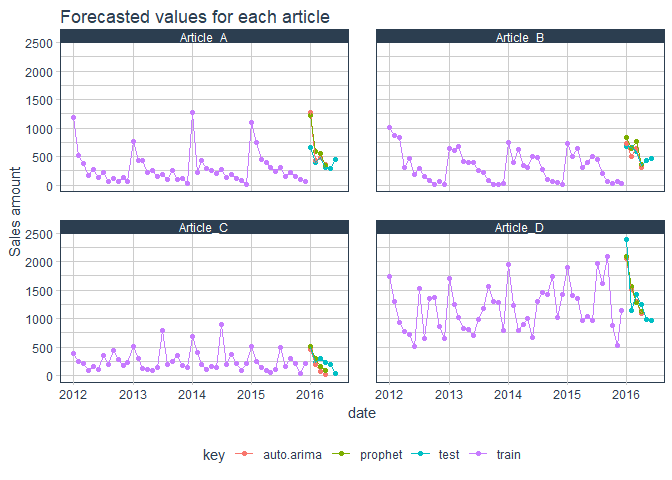
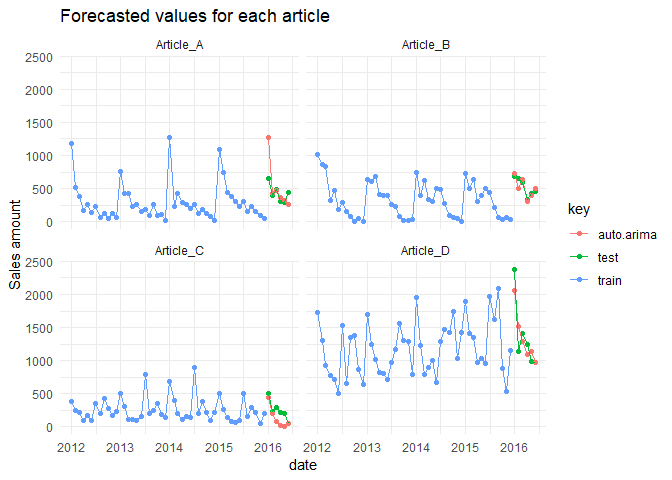
updated examples

diff --git a/README.md b/README.md
@@ -30,31 +30,50 @@ First we load some packages for this example.
 ``` r
 
 library(tidyverse)
+library(tsibble) # for creating nicer representation of monthly data
 library(efor)
 library(furrr) # for running the forecasting in parallel
 library(forecast) #provides forecast mehotds
 library(prophet) # provides forecast mehod
-library(tidyquant) # for nicer plots
 
-sales_data <- sales_monthly
+
+sales_data <- sales_monthly %>% 
+  mutate(date = yearmonth(date))
+
+sales_data
+#> # A tibble: 216 x 3
+#>        date     y iterate  
+#>       <mth> <dbl> <chr>    
+#>  1 2012 Jan  1179 Article_A
+#>  2 2012 Feb   516 Article_A
+#>  3 2012 Mrz   381 Article_A
+#>  4 2012 Apr   171 Article_A
+#>  5 2012 Mai   264 Article_A
+#>  6 2012 Jun   135 Article_A
+#>  7 2012 Jul   225 Article_A
+#>  8 2012 Aug    66 Article_A
+#>  9 2012 Sep   123 Article_A
+#> 10 2012 Okt    54 Article_A
+#> # ... with 206 more rows
 ```
 
 We have some sales data for four articles. We want to create forecasts
 for all these articles. The efor package makes this quite easy, because
 it provides functionality to create forecasts for multiple articles with
-one line of code. Right now you can use the forecast package or the
-prophet package.
+just one function code. Right now you can apply the functions from the
+forecast or prophet package.
 
 The idea is that all the data has to be organised in one dataframe with
 the following columns:
 
-  - date: The date: Right now it’s possible to use daily and monthly
-    data.
+  - date: A date column
   - iterate: the grouping variable. In this example it is the
     articlenumber
   - y: the value you want to forecast
 
-<!-- end list -->
+The dataframe sales\_data is already meeting these requirements.
+
+Before we start forecasts let’s quickly create a plot of the data:
 
 ``` r
 
@@ -63,14 +82,15 @@ ggplot(sales_data, aes(x = date, y = y)) +
   geom_point() +
   facet_wrap(~iterate) +
   ggtitle("The original series") +
-  theme_tq() 
+  theme_minimal() 
 ```
 
 <img src="man/figures/README-unnamed-chunk-2-1.png" width="100%" />
 
 We split the dataset in a train and test set. All observations from the
-year 2016 go to the test set. We want to create forecasts for the next 4
-months of the testset and evaluate the performance.
+year 2016 go into the test set. We want to create forecasts for the next
+4 months of the testset and evaluate the performance of different
+methods.
 
 ``` r
 train_data <- sales_data %>% 
@@ -87,11 +107,26 @@ parallel.
 ``` r
 forecasts_ar <- tf_grouped_forecasts(
   train_data,        # used training dataset
-  n_pred = 4,        # number of predictions
+  n_pred = 6,        # number of predictions
   func = auto.arima, # used forecasting method
-  freq = 12,         # Frequency. 12 for monthly data, 1 for daily data,
   parallel = TRUE    # for runiing in parallel
 )
+
+forecasts_ar
+#> # A tibble: 24 x 6
+#>        date iterate   key            y y_lo_95 y_hi_95
+#>       <mth> <chr>     <chr>      <dbl>   <dbl>   <dbl>
+#>  1 2016 Jan Article_A auto.arima 1266.  1051.    1481.
+#>  2 2016 Feb Article_A auto.arima  425.   210.     640.
+#>  3 2016 Mrz Article_A auto.arima  476.   260.     691.
+#>  4 2016 Apr Article_A auto.arima  367.   152.     582.
+#>  5 2016 Mai Article_A auto.arima  319.   103.     534.
+#>  6 2016 Jun Article_A auto.arima  255.    39.8    470.
+#>  7 2016 Jan Article_B auto.arima  723    500.     946.
+#>  8 2016 Feb Article_B auto.arima  501    278.     724.
+#>  9 2016 Mrz Article_B auto.arima  642    419.     865.
+#> 10 2016 Apr Article_B auto.arima  306     83.0    529.
+#> # ... with 14 more rows
 ```
 
 With the same syntax you can create forecasts utilizing the prophet
@@ -101,18 +136,34 @@ prophet, because there is some bug right now.
 ``` r
 forecasts_prophet <- tf_grouped_forecasts(
   train_data,      # used training dataset
-  n_pred = 4,      # number of predictions
+  n_pred = 6,      # number of predictions
   func = prophet,  # used forecasting method
-  freq = 12,       # Frequency. 12 for monthly data, 1 for daily data
   parallel = FALSE #disabling parallel for prohet
 )
+
+forecasts_prophet
+#> # A tibble: 24 x 6
+#>        date iterate   key         y y_lo_95 y_hi_95
+#>       <mth> <chr>     <chr>   <dbl>   <dbl>   <dbl>
+#>  1 2016 Jan Article_A prophet 1224.   1081.   1358.
+#>  2 2016 Feb Article_A prophet  589.    437.    727.
+#>  3 2016 Mrz Article_A prophet  545.    416.    682.
+#>  4 2016 Apr Article_A prophet  334.    195.    471.
+#>  5 2016 Mai Article_A prophet  384.    242.    517.
+#>  6 2016 Jun Article_A prophet  258.    122.    390.
+#>  7 2016 Jan Article_B prophet  835.    704.    971.
+#>  8 2016 Feb Article_B prophet  635.    499.    779.
+#>  9 2016 Mrz Article_B prophet  759.    628.    908.
+#> 10 2016 Apr Article_B prophet  355.    215.    495.
+#> # ... with 14 more rows
 ```
 
 In order to create some plots and evaluate the performance we combine
 the forecasts into one dataset.
 
 ``` r
-forecasts <- bind_rows(forecasts_ar, forecasts_prophet)
+forecasts <- bind_rows(forecasts_ar, forecasts_prophet) %>% 
+  mutate(date = yearmonth(date)) #reformat the date because of a bug in bind_rows
 ```
 
 The package brings also a function which makes ist quite easy to access
@@ -121,35 +172,39 @@ multiple methods:
 
 ``` r
 tf_calc_metrics(forecasts, test_data)
-#> # A tibble: 6 x 3
-#>   key        metric   value
-#>   <chr>      <chr>    <dbl>
-#> 1 auto.arima mae    154.   
-#> 2 prophet    mae    157.   
-#> 3 prophet    rmse   217.   
-#> 4 auto.arima rmse   222.   
-#> 5 auto.arima rsq      0.847
-#> 6 prophet    rsq      0.858
+#> # A tibble: 10 x 3
+#>    key        metric   value
+#>    <chr>      <chr>    <dbl>
+#>  1 auto.arima mae    129.   
+#>  2 prophet    mae    135.   
+#>  3 prophet    rmse   188.   
+#>  4 auto.arima rmse   192.   
+#>  5 auto.arima rsq      0.865
+#>  6 prophet    rsq      0.869
+#>  7 auto.arima mase     0.469
+#>  8 prophet    mase     0.491
+#>  9 auto.arima mape    25.4  
+#> 10 prophet    mape    31.4
 ```
 
 Also it is possible to access the performance of each article:
 
 ``` r
 tf_calc_metrics(forecasts, test_data, detailed = TRUE)
-#> # A tibble: 24 x 4
-#>    key        iterate   metric value
-#>    <chr>      <chr>     <chr>  <dbl>
-#>  1 auto.arima Article_B mae     71  
-#>  2 prophet    Article_C mae     88.3
-#>  3 prophet    Article_B mae     90.0
-#>  4 auto.arima Article_C mae    123. 
-#>  5 auto.arima Article_A mae    177. 
-#>  6 prophet    Article_A mae    212. 
-#>  7 prophet    Article_D mae    237. 
-#>  8 auto.arima Article_D mae    243. 
-#>  9 auto.arima Article_B rmse    86.2
-#> 10 prophet    Article_C rmse   102. 
-#> # ... with 14 more rows
+#> # A tibble: 40 x 4
+#>    key        metric value iterate  
+#>    <chr>      <chr>  <dbl> <chr>    
+#>  1 auto.arima mae     60   Article_B
+#>  2 prophet    mae     83.8 Article_C
+#>  3 prophet    mae     84.5 Article_B
+#>  4 auto.arima mae    115.  Article_C
+#>  5 auto.arima mae    154.  Article_A
+#>  6 prophet    mae    186.  Article_D
+#>  7 prophet    mae    187.  Article_A
+#>  8 auto.arima mae    189.  Article_D
+#>  9 auto.arima rmse    73.8 Article_B
+#> 10 prophet    rmse    94.0 Article_C
+#> # ... with 30 more rows
 ```
 
 Finally we create a quick graph visualising the results of the
@@ -164,117 +219,15 @@ test_data_plot <- test_data %>%
 
 bind_rows(train_data_plot, test_data_plot) %>% 
   bind_rows(forecasts) %>% 
+  filter(key %in% c("auto.arima", "train", "test")) %>% 
+  mutate(date = yearmonth(date)) %>% 
   ggplot(aes(x = date, y = y, color = key)) +
   geom_point() +
   geom_line() +
   facet_wrap(~iterate) +
   ggtitle("Forecasted values for each article") +
   ylab("Sales amount") +
-  theme_tq() 
+  theme_minimal()
 ```
 
 <img src="man/figures/README-unnamed-chunk-9-1.png" width="100%" />
-
-## Other included stuff
-
-There are couple of further things involded in the package, which make
-applying techniques to multiple timeseries easier.
-
-### Decomposition
-
-There are functions for splitting timeseries in trend, seasonality and
-noise
-
-``` r
-tf_decompose(train_data)
-#> frequency = 12 months
-#> trend = 24 months
-#> frequency = 12 months
-#> trend = 24 months
-#> frequency = 12 months
-#> trend = 24 months
-#> frequency = 12 months
-#> trend = 24 months
-#> # A tibble: 192 x 6
-#>    date           y iterate   season trend remainder
-#>    <date>     <dbl> <chr>      <dbl> <dbl>     <dbl>
-#>  1 2012-01-01  1179 Article_A  799.   271.    109.  
-#>  2 2012-02-01   516 Article_A  208.   270.     37.8 
-#>  3 2012-03-01   381 Article_A  132.   269.    -19.2 
-#>  4 2012-04-01   171 Article_A  -15.7  267.    -80.8 
-#>  5 2012-05-01   264 Article_A  -15.4  266.     13.0 
-#>  6 2012-06-01   135 Article_A -110.   265.    -20.3 
-#>  7 2012-07-01   225 Article_A  -44.4  264.      4.93
-#>  8 2012-08-01    66 Article_A -183.   264.    -15.0 
-#>  9 2012-09-01   123 Article_A -107.   263.    -32.3 
-#> 10 2012-10-01    54 Article_A -189.   262.    -18.3 
-#> # ... with 182 more rows
-```
-
-### Transformations and cleaning
-
-There are a couple of transformations possible (BoxCox, and
-forecast::tsclean)
-
-#### BoxCox
-
-First we get the lambda for each timeseries
-
-``` r
-lambdas <- tf_get_lambdas(train_data)
-
-lambdas
-#> # A tibble: 4 x 2
-#>   iterate    lambda
-#>   <chr>       <dbl>
-#> 1 Article_A  0.0804
-#> 2 Article_B  0.322 
-#> 3 Article_C -0.182 
-#> 4 Article_D  0.0127
-```
-
-Apply the BoxCox transformation with the calculated lambdas:
-
-``` r
-train_data_boxcox <- tf_boxcox(train_data)
-```
-
-Quick plot of the boxcox transformed series:
-
-``` r
-ggplot(train_data_boxcox, aes(x = date, y = y)) +
-  geom_line() +
-  geom_point() +
-  facet_wrap(~iterate) +
-  ggtitle("The boxcox transformed series") +
-  theme_tq()
-```
-
-<img src="man/figures/README-unnamed-chunk-13-1.png" width="100%" />
-
-Afterwards it’s possible to remove the boxcox transformation:
-
-``` r
-tf_remove_boxcox(train_data_boxcox, lambdas)
-#> # A tibble: 192 x 3
-#>    date            y iterate  
-#>    <date>      <dbl> <chr>    
-#>  1 2012-01-01 1179.  Article_A
-#>  2 2012-02-01  516.  Article_A
-#>  3 2012-03-01  381   Article_A
-#>  4 2012-04-01  171.  Article_A
-#>  5 2012-05-01  264.  Article_A
-#>  6 2012-06-01  135.  Article_A
-#>  7 2012-07-01  225.  Article_A
-#>  8 2012-08-01   66.0 Article_A
-#>  9 2012-09-01  123.  Article_A
-#> 10 2012-10-01   54.0 Article_A
-#> # ... with 182 more rows
-```
-
-  - There are functions for preparing timeseries for regression tasks
-  - there is a function for applying a gridsearch for prophet models
-
-## Next Steps
-
-  - add a function for handling outliers via the anomalize package
